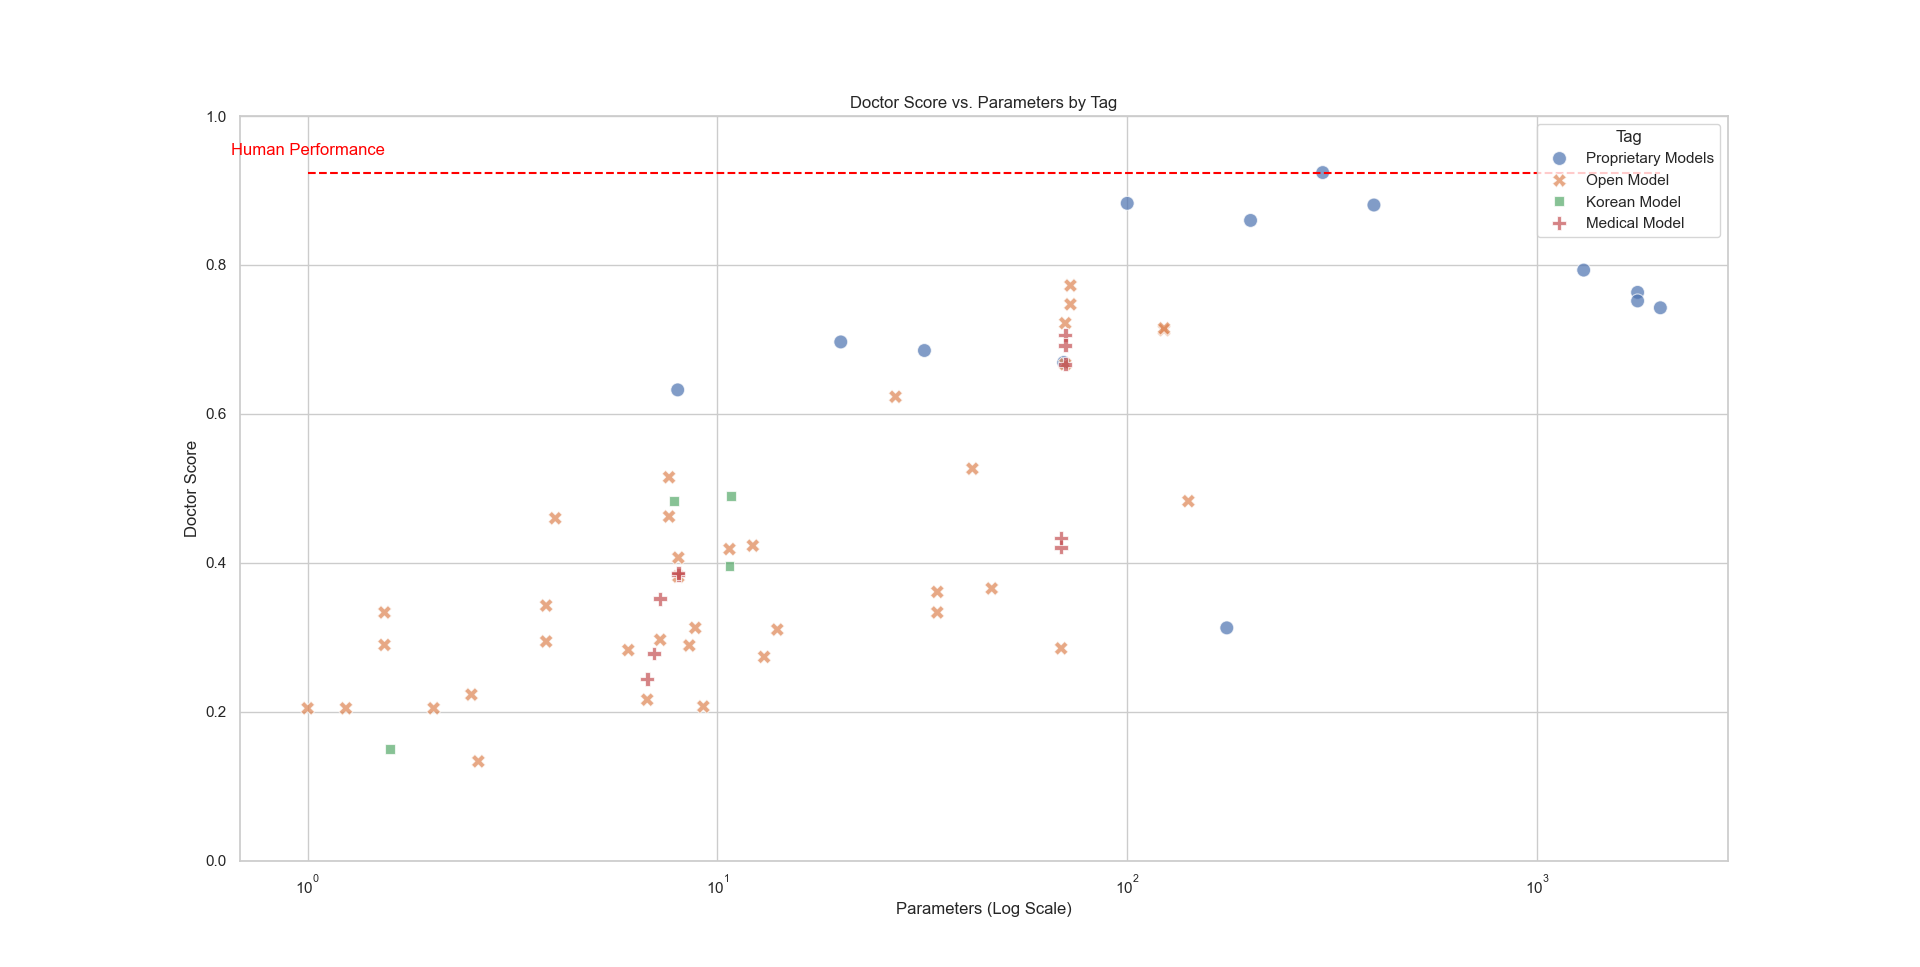
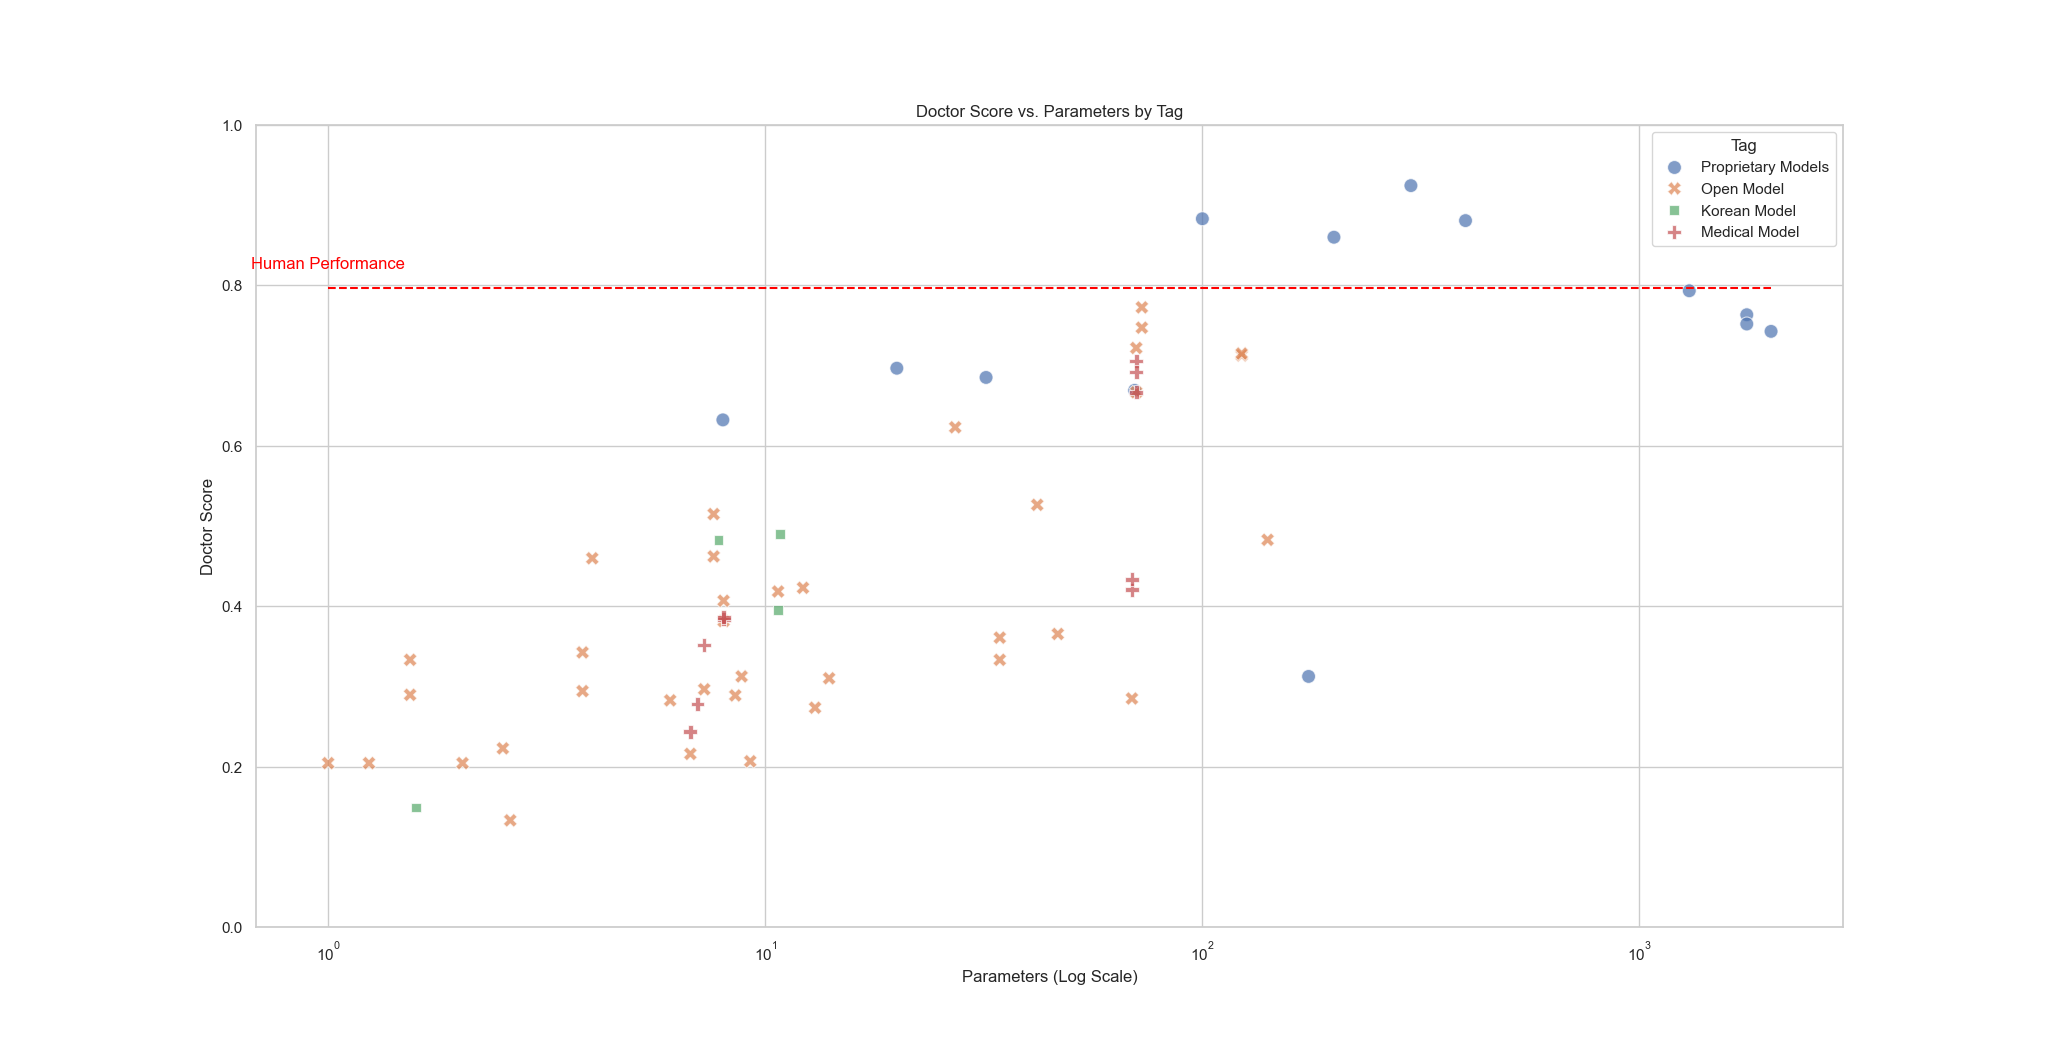
그래프 작업

diff --git a/graph.py b/graph.py
@@ -18,22 +18,17 @@ plt.title("Doctor Score vs. Parameters by Tag")
 if not result_df.empty:
     # Ensure Parameters column is numeric for min/max
     result_df["Parameters"] = pd.to_numeric(result_df["Parameters"], errors='coerce')
-    # Drop rows where Parameters could not be converted, if any, before trying to use min/max
-    result_df.dropna(subset=["Parameters"], inplace=True)
     
-    if not result_df.empty: # Check again if dataframe became empty after dropping NaNs from Parameters
-        plt.hlines(y=result_df.iloc[0]["Doctor"], xmin=result_df["Parameters"].min(), xmax=result_df["Parameters"].max(), color="red", linestyle="--")
-        plt.text(
-            # Adjust x position if necessary, e.g., use a value from Parameters or a relative position
-            result_df["Parameters"].min() if not result_df["Parameters"].empty else 1.5, 
-            result_df.iloc[0]["Doctor"] + 0.02,
-            "Human Performance",
-            horizontalalignment="center",
-            verticalalignment="bottom",
-            color="red",
-        )
-    else:
-        print("DataFrame is empty after attempting to convert 'Parameters' column to numeric and dropping NaNs.")
+    plt.hlines(y=result_df.iloc[0]["Doctor"], xmin=result_df["Parameters"].min(), xmax=result_df["Parameters"].max(), color="red", linestyle="--")
+    plt.text(
+        # Adjust x position if necessary, e.g., use a value from Parameters or a relative position
+        result_df["Parameters"].min() if not result_df["Parameters"].empty else 1.5, 
+        result_df.iloc[0]["Doctor"] + 0.02,
+        "Human Performance",
+        horizontalalignment="center",
+        verticalalignment="bottom",
+        color="red",
+    )
 else:
     print("DataFrame is empty after attempting to convert 'Doctor' column to numeric and dropping NaNs.")
 

diff --git a/fine_tuning.py b/fine_tuning.py
@@ -114,9 +114,12 @@ if __name__ == "__main__":
 
     # Load jsons
     
-    models = 
+    with open("models.json1", "r") as f:
+        models = json.load(f)
+    with open("models_kwargs.json", "r") as f:
+        models_kwargs = json.load(f)
 
-    for model_id in sota_1b_model_id_list:
+    for model_id in models["sota_1b_model_id_list"]:
         fine_tuner = FineTuner(
             model_id, is_quantization=False, is_lora=False, lora_r=32, lora_alpha=64
         )
@@ -167,7 +170,7 @@ if __name__ == "__main__":
             train_dataset=train_dataset,
             eval_dataset=eval_dataset,
             output_dir=f"./output/{model_id.split('/')[-1]}/medqa_5options",
-            **sota_1b_model_kwargs[model_id],
+            **models_kwargs["sota_1b_model_kwargs"][model_id],
         )
         fine_tuner.model.save_pretrained(
             f"./fine_tuned/{model_id.split('/')[-1]}_{option}/medqa_5options"

diff --git a/README.md b/README.md
@@ -10,9 +10,14 @@
 - [Kweon, S., Choi, B., Chu, G., Song, J., Hyeon, D., Gan, S., ... & Choi, E. (2024). KorMedMCQA: multi-choice question answering benchmark for Korean healthcare professional licensing examinations. arXiv preprint arXiv:2403.01469.](https://doi.org/10.48550/arXiv.2403.01469)
 
 ### 데이터셋
+
 - 영어, 한국어 데이터셋으로 sLLM 진단 결과 측정
-- 영어: 미국 의사 면허 시험(USMLE)을 기반으로 한 12,000여 개의 문제로 구성
-- 한국어: KorMedMCQA 등을 기반으로 7,469개의 문제로 구성
+- 영어
+  - [MedQA](https://github.com/jind11/MedQA)
+  - 미국 의사 면허 시험(USMLE)을 기반으로 한 12,000여 개의 문제로 구성
+- 한국어
+  - [KorMedMCQA](https://huggingface.co/datasets/sean0042/KorMedMCQA)
+  - 한국 의료 면허 시험을 기반으로 7,469개의 문제로 구성
 
 ## 옵션별 실험환경
 
@@ -59,6 +64,10 @@ training_args = TrainingArguments(
 |bnb_4bit_quant_type|nf4|
 |bnb_4bit_compute_dtype|bloat16|
 
-### lora(r=32/a=64)
+### AWQ
 
-### qlora(r=32/a=64)
+- 파라미터 수가 큰 모델을 우선으로 함
+
+### LoRA(r=32/a=64)
+
+### QLoRA(r=32/a=64)
